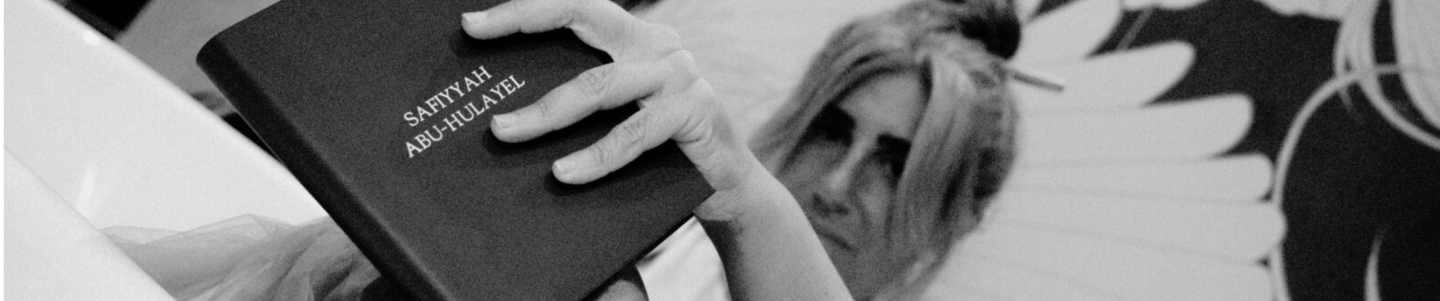
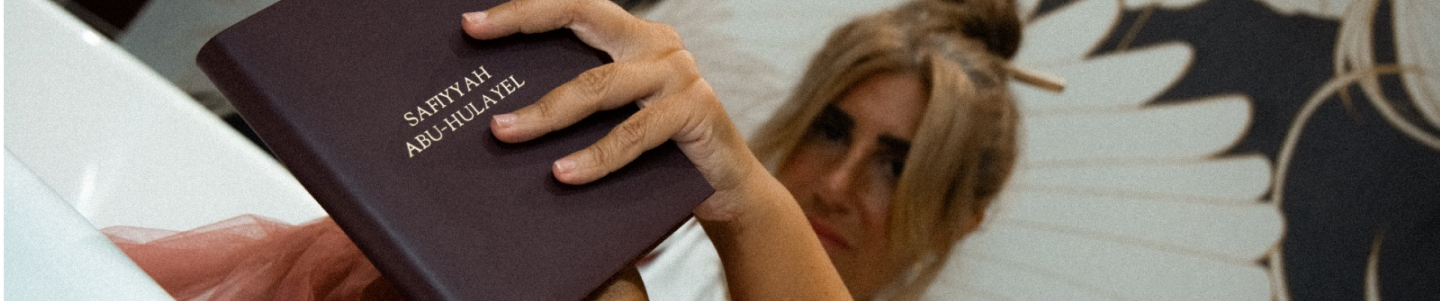
image

diff --git a/src/page/Home/Home.css b/src/page/Home/Home.css
@@ -56,10 +56,17 @@
     /* Default height */
     max-width: 100%;
     float: right;
+
+    filter: grayscale(100%); /* Apply grayscale filter on hover */
+    transition: filter 0.1s; /* Smooth transition */
+
+
 }
 
 .content .section-1 .box-2 img:hover {
-    content: url('../../../public/assest/image/img_1_hover.png');
+    
+    filter: grayscale(0%); /* Apply grayscale filter on hover */
+
 }
 
 /* section 1 end  */
@@ -792,10 +799,6 @@ object-fit: fill;
         object-fit: cover;
     }
 
-    .content .section-1 .box-2 img:hover {
-        content: url('../../../public/assest/image/res_img_1.png');
-
-    }
 
     .content .section-1 .box-1 h1 {
         font-family: Outfit;
